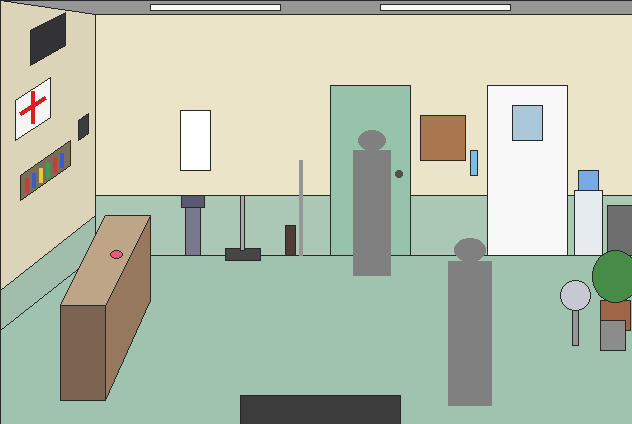
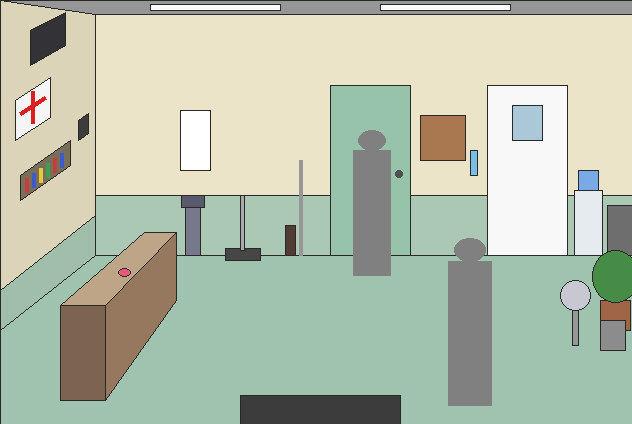
손길 대기실 5차 밑그림: 접수대 선을 왼쪽 벽 소실점에 맞춤
Claude-Session: https://claude.ai/code/session_015GFgRAjkbkX57RypBkDa9m

Changed region(s): [[0.0902, 0.4906, 0.3006, 0.9198]]

diff --git a/tools/pixellab/sketch_songil_v5.py b/tools/pixellab/sketch_songil_v5.py
@@ -12,11 +12,11 @@ poly([(0,255),(95,255),(W,255),(W,H),(0,H)],(160,195,175))
 poly([(0,0),(95,14),(95,255),(0,330)],(220,212,185))
 poly([(0,290),(95,215),(95,255),(0,330)],(160,190,170))
 rect(150,4,280,10,(250,250,250)); rect(380,4,510,10,(250,250,250))
-# 접수대: | 자(뒷벽과 수직, 앞뒤로 길게), 뒤 끝은 뒷벽에서 떨어짐(직원 출입), 긴 옆면이 오른쪽(방 안)
-poly([(60,305),(105,305),(150,215),(105,215)],(190,165,135))
+# 접수대: | 자. 왼쪽 벽 바닥선·천장선이 모이는 소실점(약 353,52)으로 선을 맞춤(벽과 나란히), 뒤 끝은 뒷벽에서 떨어짐
+poly([(60,305),(105,305),(176,232),(144,232)],(190,165,135))
 rect(60,305,105,400,(125,100,80))
-poly([(105,305),(150,215),(150,300),(105,400)],(150,120,95))
-d.ellipse([110,250,122,258],fill=(230,90,120),outline=O)
+poly([(105,305),(176,232),(176,300),(105,400)],(150,120,95))
+d.ellipse([118,268,130,276],fill=(230,90,120),outline=O)
 poly([(20,175),(70,140),(70,165),(20,200)],(120,110,90))
 for i,c in enumerate([(200,60,60),(60,90,200),(230,200,60),(60,160,80),(200,60,60),(60,90,200)]): d.line([(26+i*7,178-i*5),(26+i*7,192-i*5)],fill=c,width=4)
 poly([(78,120),(88,113),(88,133),(78,140)],(60,60,60))
